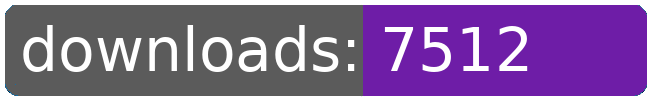
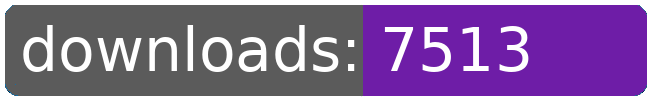
dl log written

Changed region(s): [[0.7692, 0.42, 0.8308, 0.72], [0.7692, 0.27, 0.8, 0.36], [0.8, 0.36, 0.8308, 0.39]]

diff --git a/README.md b/README.md
@@ -21,8 +21,8 @@
 		<td>7451</td>
 		<td>7477</td>
 		<td>7501</td>
-		<td>7512</td>
-		<td>+ 11</td>
+		<td>7513</td>
+		<td>+ 12</td>
 	</tr>
 	<tr>
 		<td>aberrant.kahet.outfitter</td>
@@ -274,8 +274,8 @@
 		<td></td>
 		<td></td>
 		<td></td>
-		<td>110081</td>
-		<td>221</td>
+		<td>110082</td>
+		<td>222</td>
 	</tr>
 </table>
 </sub></sup>
@@ -300,8 +300,8 @@
 		<td>7451</td>
 		<td>7477</td>
 		<td>7501</td>
-		<td>7512</td>
-		<td>+ 11</td>
+		<td>7513</td>
+		<td>+ 12</td>
 	</tr>
 	<tr>
 		<td>aberrant.kahet.outfitter</td>
@@ -553,8 +553,8 @@
 		<td></td>
 		<td></td>
 		<td></td>
-		<td>110081</td>
-		<td>221</td>
+		<td>110082</td>
+		<td>222</td>
 	</tr>
 </table>
 </sub></sup>
